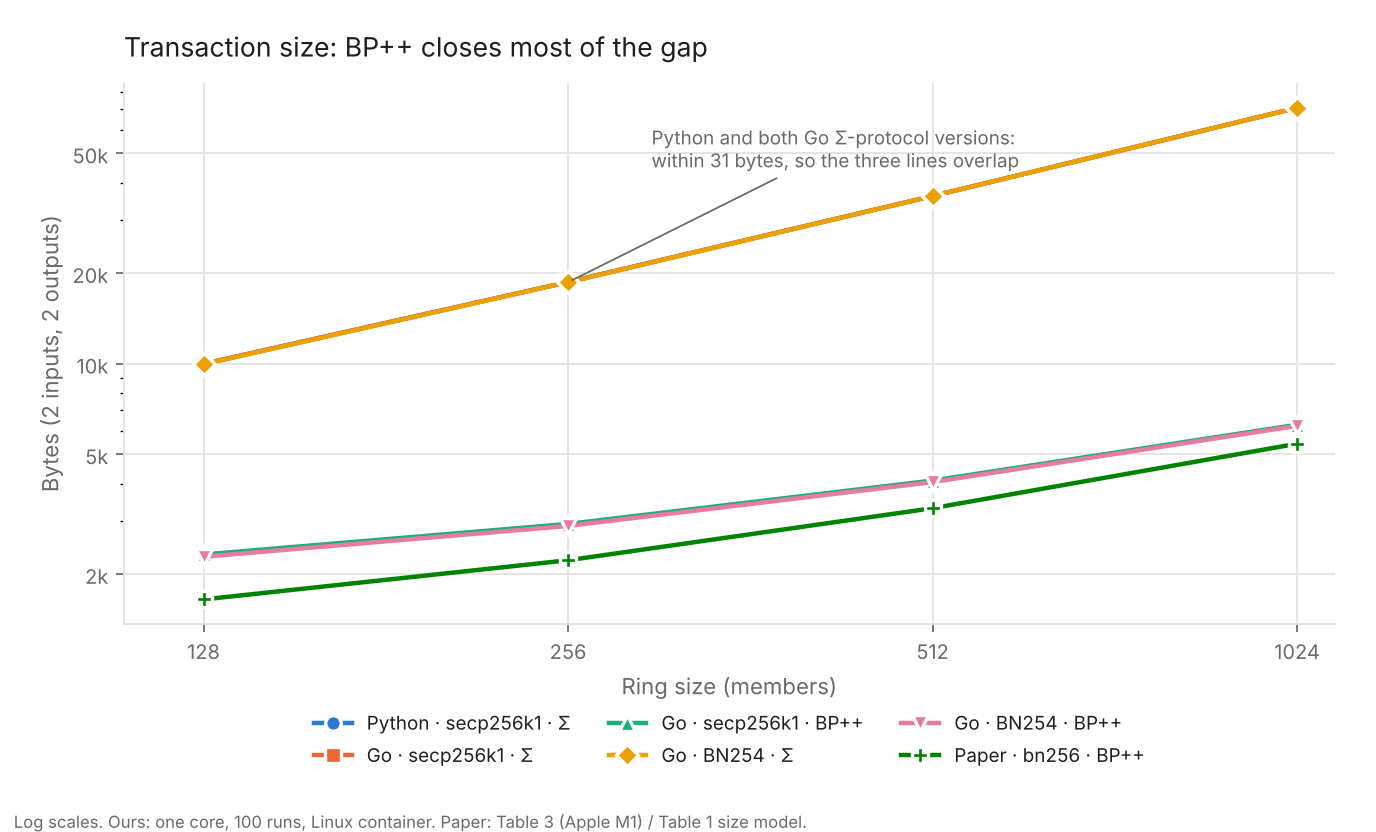
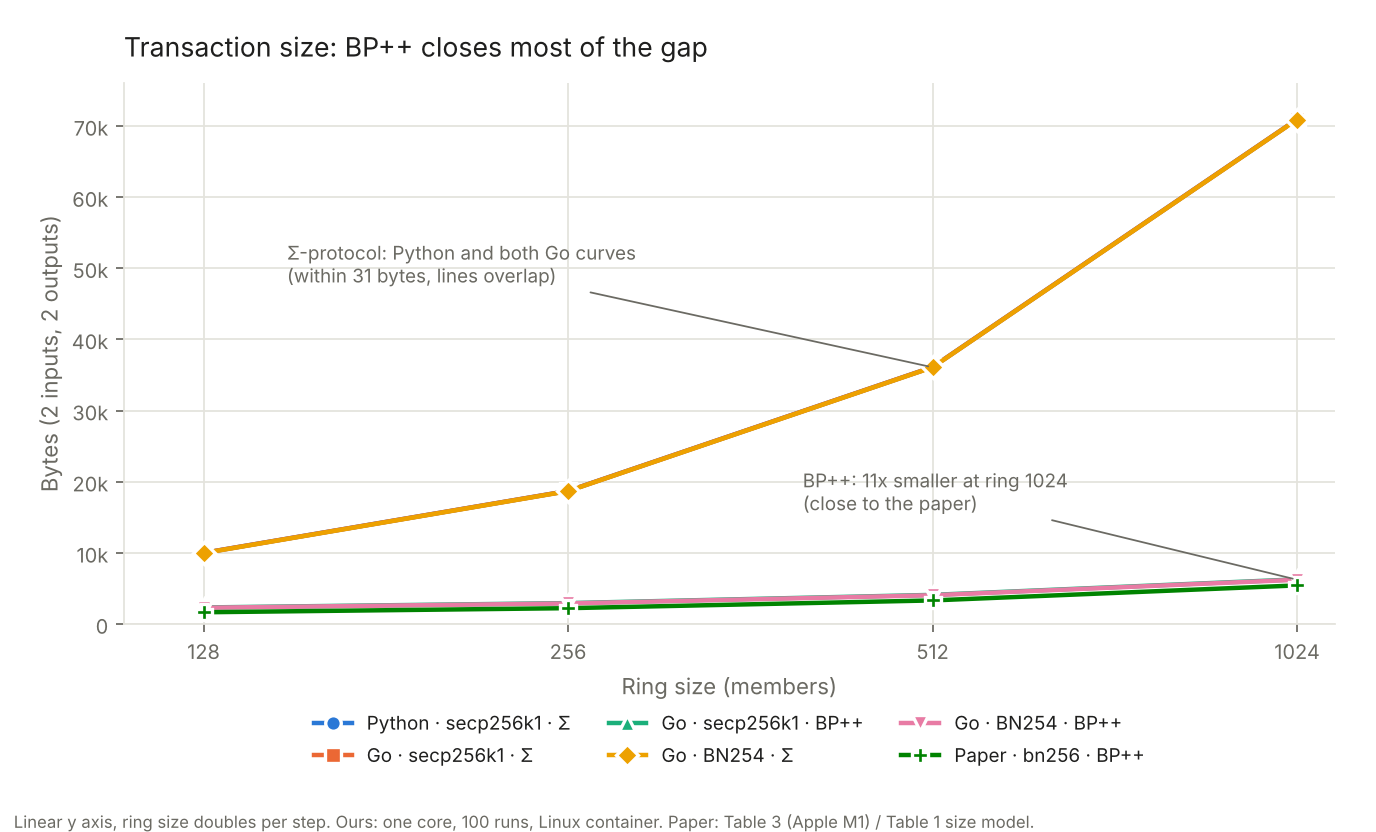
Go plots: linear y axis for transaction size
Claude-Session: https://claude.ai/code/session_01UKM1fakZm7H29DtvE51ntF

diff --git a/go/plot_go.py b/go/plot_go.py
@@ -9,8 +9,8 @@ writes three PNGs to go/results/plots/. Run from the repository root:
 
 Every line has its own marker as well as its colour, and the legend names
 them, so no line is told apart by colour alone. Where lines overlap (the
-Σ-protocol sizes are identical in every version) the legend still lists them. The y axes are logarithmic because the versions differ by up to
-1000x; the numbers themselves are in go/README.md.
+Σ-protocol sizes are identical in every version) the legend still lists them.
+The time axes are logarithmic because the versions differ by up to 1000x; the size axis is linear so the drop from BP++ is shown at true scale; the numbers themselves are in go/README.md.
 """
 
 from __future__ import annotations
@@ -116,22 +116,26 @@ def chart(data, metric: str, title: str, ylabel: str, fname: str) -> Path:
         ax.plot(xs, ys, color=colour, lw=2, marker=marker, ms=7,
                 markeredgecolor="white", markeredgewidth=1.5, label=label, zorder=3)
 
-    ax.set_yscale("log")
-    lo, hi = ax.get_ylim()
-    ax.set_ylim(lo, hi)
-    if metric == "bytes":
-        ax.annotate("Python and both Go Σ-protocol versions:\nwithin 31 bytes, so the three lines overlap",
-                    xy=(256, data["bn_sigma"]["bytes"][256]), xytext=(300, 45000),
-                    fontsize=8.5, color=MUTED, arrowprops=dict(arrowstyle="-", color=MUTED, lw=0.8))
-
+    linear = metric == "bytes"  # size: a linear axis shows the 11x drop as it is
     ax.set_xscale("log", base=2)
-    ax.set_yscale("log")
     ax.set_xticks(RINGS)
     ax.set_xticklabels([str(n) for n in RINGS])
     ax.set_xlim(110, 1100)
-    ax.yaxis.set_major_locator(LogLocator(base=10, subs=(1, 2, 5)))
-    ax.yaxis.set_major_formatter(FuncFormatter(human))
-    ax.yaxis.set_minor_formatter(NullFormatter())
+    if linear:
+        ax.set_ylim(0, 76000)
+        ax.yaxis.set_major_formatter(FuncFormatter(human))
+        ax.annotate("Σ-protocol: Python and both Go curves\n(within 31 bytes, lines overlap)",
+                    xy=(512, data["bn_sigma"]["bytes"][512]), xytext=(150, 48000),
+                    fontsize=8.5, color=MUTED, arrowprops=dict(arrowstyle="-", color=MUTED, lw=0.8))
+        bpp, sig = data["bn_bpp"]["bytes"][1024], data["bn_sigma"]["bytes"][1024]
+        ax.annotate(f"BP++: {sig / bpp:.0f}x smaller at ring 1024\n(close to the paper)",
+                    xy=(1024, bpp), xytext=(400, 16000),
+                    fontsize=8.5, color=MUTED, arrowprops=dict(arrowstyle="-", color=MUTED, lw=0.8))
+    else:
+        ax.set_yscale("log")
+        ax.yaxis.set_major_locator(LogLocator(base=10, subs=(1, 2, 5)))
+        ax.yaxis.set_major_formatter(FuncFormatter(human))
+        ax.yaxis.set_minor_formatter(NullFormatter())
     ax.set_xlabel("Ring size (members)", color=MUTED)
     ax.set_ylabel(ylabel, color=MUTED)
     ax.set_title(title, loc="left", color=INK, fontsize=12, pad=12)
@@ -144,7 +148,8 @@ def chart(data, metric: str, title: str, ylabel: str, fname: str) -> Path:
     ax.tick_params(colors=MUTED, labelsize=9)
     ax.legend(loc="upper center", bbox_to_anchor=(0.5, -0.13), ncol=3, frameon=False,
               fontsize=8.5, labelcolor=INK)
-    fig.text(0.01, 0.005, "Log scales. Ours: one core, 100 runs, Linux container. "
+    scale = "Linear y axis" if linear else "Log y axis"
+    fig.text(0.01, 0.005, f"{scale}, ring size doubles per step. Ours: one core, 100 runs, Linux container. "
              "Paper: Table 3 (Apple M1) / Table 1 size model.", fontsize=7.5, color=MUTED)
     fig.subplots_adjust(left=0.09, right=0.97, top=0.9, bottom=0.25)
     OUT.mkdir(parents=True, exist_ok=True)
